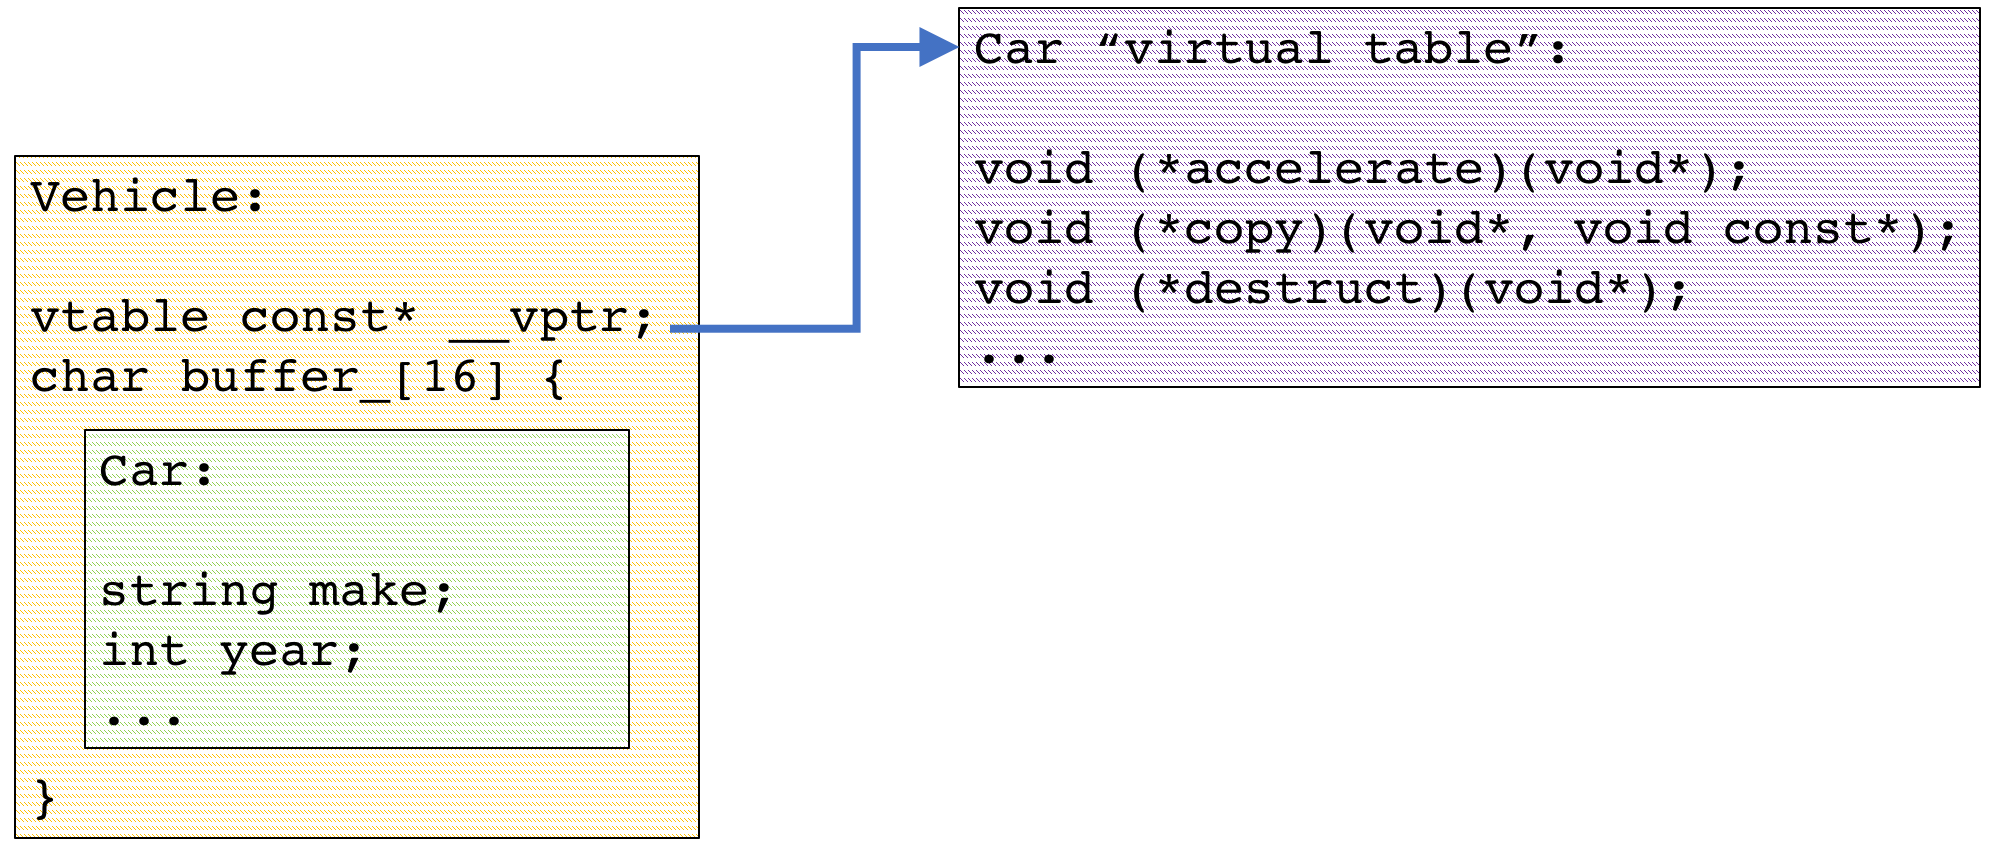
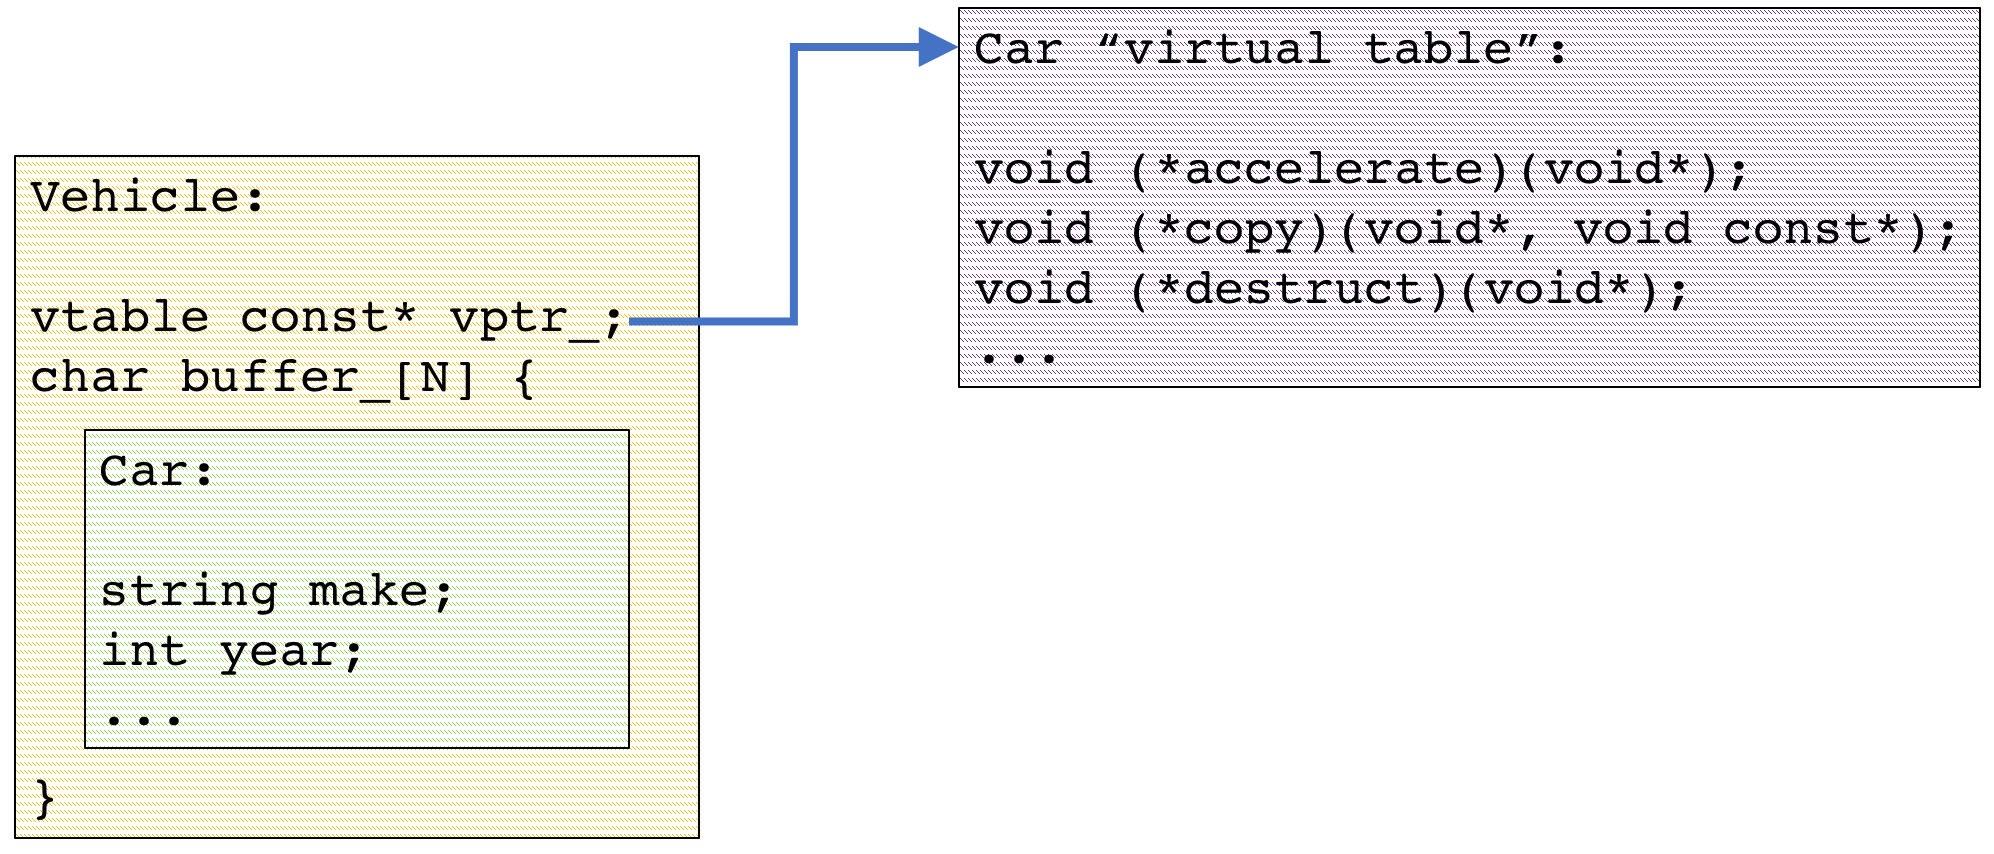
Present remaining storage policies

Changed region(s): [[0.1866, 0.0304, 0.4353, 0.4567]]

diff --git a/index.html b/index.html
@@ -463,11 +463,29 @@ Vehicle getVehicle(std::istream& user) {
 
 ![Type erasure with local storage](img/local_storage.png)
 
-<!--
-TODO:
-- Show how it's implemented
-- Talk about strenghts and weaknesses
--->
+<!-- TODO: Talk about strenghts and weaknesses -->
+
+----
+
+### Doesn't fit? Doesn't compile!
+
+----
+
+### How that's implemented
+
+<pre><code data-sample='code/local_storage.cpp#Vehicle::Vehicle'></code></pre>
+
+----
+
+### Destruction
+
+<pre><code data-sample='code/local_storage.cpp#Vehicle::~Vehicle'></code></pre>
+
+----
+
+### Method dispatching
+
+<pre><code data-sample='code/local_storage.cpp#Vehicle::accelerate'></code></pre>
 
 ====================
 
@@ -475,11 +493,19 @@ TODO:
 
 ![Type erasure with non-owning storage](img/non_owning_storage.png)
 
-<!--
-TODO:
-- Show how it's implemented
-- Show how it can be used (e.g. `function_ref`)
--->
+<!-- TODO: Show how it can be used (e.g. `function_ref`) -->
+
+----
+
+### How that's implemented
+
+<pre><code data-sample='code/non_owning_storage.cpp#Vehicle'></code></pre>
+
+----
+
+### Usage differs a bit
+
+<pre><code data-sample='code/non_owning_storage.cpp#main'></code></pre>
 
 ====================
 
@@ -487,11 +513,13 @@ TODO:
 
 ![Type erasure with shared remote storage](img/shared_storage.png)
 
-<!--
-TODO:
-- Show how it's implemented
-- Show some use cases (e.g. Sean Parent's `document`)
--->
+<!-- TODO: Show some use cases (e.g. Sean Parent's `document`) -->
+
+----
+
+### How that's implemented
+
+<pre><code data-sample='code/shared_remote_storage.cpp#Vehicle'></code></pre>
 
 ==============================================================================
 

diff --git a/code/non_owning_storage.cpp b/code/non_owning_storage.cpp
@@ -3,48 +3,30 @@
 
 #include "vtable.hpp"
 
-#include <cstdlib>
+#include <cstddef>
 #include <iostream>
 #include <string>
 #include <vector>
 
 
-// sample(Vehicle::Vehicle)
-class Vehicle {
-  vtable const* vptr_;
-  std::aligned_storage_t<64> buffer_;
-
-public:
+// sample(Vehicle)
+struct Vehicle {
   template <typename Any>
     // enabled only when vehicle.accelerate() is valid
-  Vehicle(Any vehicle)
+  Vehicle(Any& vehicle)
     : vptr_{&vtable_for<Any>}
-  {
-    static_assert(sizeof(Any) <= sizeof(buffer_),
-      "can't hold such a large object in a Vehicle");
-    new (&buffer_) Any(vehicle);
-  }
-// end-sample
+    , ref_{&vehicle}
+  { }
 
-  Vehicle(Vehicle const& other)
-    : vptr_{other.vptr_}
-  {
-    other.vptr_->copy(&buffer_, &other.buffer_);
-  }
-
-// sample(Vehicle::accelerate)
   void accelerate() {
-    vptr_->accelerate(&buffer_);
+    vptr_->accelerate(ref_);
   }
-// end-sample
 
-// sample(Vehicle::~Vehicle)
-  ~Vehicle() {
-    vptr_->dtor(&buffer_);
-  }
-// end-sample
+private:
+  vtable const* vptr_;
+  void* ref_;
 };
-
+// end-sample
 
 
 //////////////////////////////////////////////////////////////////////////////
@@ -68,11 +50,14 @@ struct Plane {
 
 // sample(main)
 int main() {
-  std::vector<Vehicle> vehicles;
+  Car audi{"Audi", 2017};
+  Truck chevrolet{"Chevrolet", 2015};
+  Plane boeing{"Boeing", "747"};
 
-  vehicles.push_back(Car{"Audi", 2017});
-  vehicles.push_back(Truck{"Chevrolet", 2015});
-  vehicles.push_back(Plane{"Boeing", "747"});
+  std::vector<Vehicle> vehicles;
+  vehicles.push_back(audi);
+  vehicles.push_back(chevrolet);
+  vehicles.push_back(boeing);
 
   for (auto& vehicle : vehicles) {
     vehicle.accelerate();

diff --git a/code/shared_remote_storage.cpp b/code/shared_remote_storage.cpp
@@ -3,47 +3,31 @@
 
 #include "vtable.hpp"
 
+#include <cstddef>
 #include <cstdlib>
 #include <iostream>
 #include <string>
 #include <vector>
 
 
-// sample(Vehicle::Vehicle)
+// sample(Vehicle)
 class Vehicle {
   vtable const* vptr_;
-  std::aligned_storage_t<64> buffer_;
+  std::shared_ptr<void> ptr_;
 
 public:
   template <typename Any>
     // enabled only when vehicle.accelerate() is valid
   Vehicle(Any vehicle)
     : vptr_{&vtable_for<Any>}
-  {
-    static_assert(sizeof(Any) <= sizeof(buffer_),
-      "can't hold such a large object in a Vehicle");
-    new (&buffer_) Any(vehicle);
-  }
-// end-sample
+    , ptr_{std::make_shared<Any>(vehicle)}
+  { }
 
-  Vehicle(Vehicle const& other)
-    : vptr_{other.vptr_}
-  {
-    other.vptr_->copy(&buffer_, &other.buffer_);
-  }
-
-// sample(Vehicle::accelerate)
   void accelerate() {
-    vptr_->accelerate(&buffer_);
+    vptr_->accelerate(ptr_.get());
   }
-// end-sample
-
-// sample(Vehicle::~Vehicle)
-  ~Vehicle() {
-    vptr_->dtor(&buffer_);
-  }
-// end-sample
 };
+// end-sample
 
 
 
